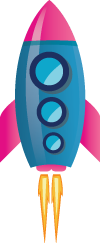
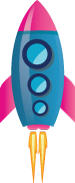
Added moving asteroids. Changed ship size

diff --git a/GameScene.swift b/GameScene.swift
@@ -100,7 +100,7 @@ class GameScene: SKScene {
         tapToStartNode.zPosition = player.zPosition + 1
         hud.addChild(tapToStartNode)
         
-        buildHUD()
+        createHUD()
         
         initMotionManager()
     }
@@ -111,16 +111,18 @@ class GameScene: SKScene {
             return
         }
         
+        // Update Score
         GameState.sharedInstance.score = Int(player.position.y) - 79
         scoreLabel.text = "\(GameState.sharedInstance.score)"
         
-        // Remove past objected
+        // Remove past objects
         foreground.enumerateChildNodesWithName("ASTEROID_NODE", usingBlock: {
             (node, stop) in
             let asteroid = node as! AsteroidNode
             asteroid.checkNodeRemoval(self.player.position.y)
         })
         
+        // Paralax Effect
         if (player.physicsBody!.dynamic) {
             background.position.y -= 0.2
             midground.position.y -=  0.5
@@ -134,6 +136,13 @@ class GameScene: SKScene {
             drawAsteroids(startingAt: maxLevelY - 1000)
         }
         
+        // Check if we should add a flying asteroid
+        let r = random()
+        if (r % 100) == 0 {
+            print("Drawing Asteroid!!")
+             drawMovingAsteroid(r)
+        }
+        
         // Check if we need to reload background
         if (player.position.y > backgroundHeight - self.size.height - 50) {
             backgroundHeight = backgroundHeight + backgroundImageHeight
@@ -142,6 +151,38 @@ class GameScene: SKScene {
             background.addChild(newBackground)
         }
     }
+    
+    override func touchesBegan(touches: Set<UITouch>, withEvent event: UIEvent?) {
+        
+        // If already started ignore touches
+        // TODO: Change this when power ups incorporated
+        if player.physicsBody!.dynamic {
+            return
+        }
+        
+        tapToStartNode.removeFromParent()
+        
+        if let musicURL = NSBundle.mainBundle().URLForResource("rocket_thrust", withExtension: "wav") {
+            backgroundMusic = SKAudioNode(URL: musicURL)
+            addChild(backgroundMusic)
+        }
+        
+        player.physicsBody?.dynamic = true
+    }
+    
+    override func didSimulatePhysics() {
+        player.physicsBody?.velocity.dx = xAcceleration * 400.0
+        player.zRotation = self.rotation
+        
+        // Check x bounds for wrap around
+        if player.position.x < -20.0 {
+            player.position.x = self.size.width + 20.0
+        } else if (player.position.x > self.size.width + 20.0) {
+            player.position.x = -20.0
+        }
+    }
+    
+    // MARK: Node Creating
     
     func createBackground(offset: Int) -> SKNode {
         
@@ -195,17 +236,16 @@ class GameScene: SKScene {
     func createPlayer() -> GameObjectNode {
         
         let playerNode = GameObjectNode()
-        playerNode.position = CGPoint(x: self.size.width / 2, y: 80.0) // TODO: Change magic number
+        playerNode.position = CGPoint(x: self.size.width / 2, y: 80.0)
         
         let sprite = SKSpriteNode(imageNamed: "blueRocket")
         playerNode.addChild(sprite)
         
         playerNode.physicsBody = SKPhysicsBody(rectangleOfSize: sprite.size)
         playerNode.physicsBody?.dynamic = false
-        playerNode.physicsBody?.allowsRotation = false // TODO: May want to change this later
+        playerNode.physicsBody?.allowsRotation = false
 
         // Node interaction properties
-        // TODO: May want to change damping later
         playerNode.physicsBody?.restitution = 1.0
         playerNode.physicsBody?.linearDamping = 0.0
         playerNode.physicsBody?.angularDamping = 0.0
@@ -220,7 +260,7 @@ class GameScene: SKScene {
         return playerNode
     }
     
-    func buildHUD() {
+    func createHUD() {
 
         // TODO: Change this dumb font
         scoreLabel = SKLabelNode(fontNamed: "ChalkboardSE-Bold")
@@ -232,11 +272,94 @@ class GameScene: SKScene {
         scoreLabel.text = "0"
         hud.addChild(scoreLabel)
     }
+    
+    // For creating stationary asteroids
+    // TODO: Create seperate method for creating asteroid at position with force (vector)
+    func drawAsteroidAtPosition(position: CGPoint, ofType type: AsteroidType) -> AsteroidNode {
+        
+        let node = AsteroidNode()
+        node.position = CGPoint(x: position.x * scaleFactor, y: position.y)
+        node.type = type
+        
+        var sprite: SKSpriteNode!
+        if type == .Moving {
+            sprite = SKSpriteNode(imageNamed: "asteroidWithTrail")
+            node.physicsBody = SKPhysicsBody(rectangleOfSize: sprite.size)
+            node.physicsBody?.dynamic = true
+            node.name = "MOVING_ASTEROID"
+        } else {
+            sprite = SKSpriteNode(imageNamed: "asteroid")
+            node.physicsBody = SKPhysicsBody(circleOfRadius: sprite.size.width / 2)
+            node.physicsBody?.dynamic = false
+            node.name = "NORMAL_ASTEROID"
+        }
+        node.addChild(sprite)
+        
+        node.physicsBody?.categoryBitMask = CollisionCategoryBitMask.Asteroid
+        node.physicsBody?.collisionBitMask = 0
+        
+        return node
+    }
+    
+    // Draw pattern at location and return max y height
+    func drawPattern(pattern: [NSDictionary], patternX: CGFloat, patternY: CGFloat) -> CGFloat {
 
+        var maxY: CGFloat = 0
+        
+        for asteroidPoint in pattern {
+            let x = asteroidPoint["x"]?.floatValue
+            let y = asteroidPoint["y"]?.floatValue
+            let positionX = CGFloat(x!) + patternX
+            let positionY = CGFloat(y!) + patternY
+            
+            let asteroidNode = drawAsteroidAtPosition(CGPoint(x: positionX, y: positionY), ofType: .Normal)
+            foreground.addChild(asteroidNode)
+            maxY = (positionY > maxY) ? positionY : maxY
+        }
+        
+        return maxY
+    }
+    
+    func drawAsteroids(startingAt y: CGFloat) {
+        let patterns = (levelData["Asteroids"] as! NSDictionary)["Patterns"] as! NSDictionary
+        let numPatterns = patterns.count
+        var pattern: [NSDictionary]!
+        var currentY = y
+        var nextY: CGFloat!
+        var xPosition: CGFloat!
+        var r = 0
+        
+        while (currentY < maxLevelY) {
+            // Get random pattern
+            r = random()
+            pattern = patterns.allValues[r % numPatterns] as! [NSDictionary]
+            
+            // Get rancdom xPosition between 30 and self.size.width - 30
+            xPosition = (CGFloat(r) % (self.size.width - 60)) + 30
+            
+            nextY = drawPattern(pattern, patternX: xPosition, patternY: currentY)
+            currentY = nextY + 100
+        }
+    }
+    
+    func drawMovingAsteroid(randomValue: Int) {
+        let xPosition = CGFloat(randomValue) % self.size.width
+        let asteroid = drawAsteroidAtPosition(CGPoint(x: xPosition, y: player.position.y + self.size.height), ofType: .Moving)
+        foreground.addChild(asteroid)
+
+        // Get random dx between -5 and 5, random dy between -10 and 5        
+        let dx = (random() % 10) - 5
+        let dy = dx - 20
+
+        asteroid.zRotation = atan2(CGFloat(dy), CGFloat(dx)) + CGFloat(M_PI_2)
+        asteroid.physicsBody?.applyImpulse(CGVector(dx: dx, dy: dy))
+    }
+    
+    // MARK: Motion Manager Setup
+    
     func initMotionManager() {
         
         // Get xAcceleration
-        
         motionManager.accelerometerUpdateInterval = 0.1
         motionManager.startAccelerometerUpdatesToQueue(NSOperationQueue.currentQueue()!, withHandler: {
             (accelerometerData: CMAccelerometerData?, error: NSError?) in
@@ -254,106 +377,10 @@ class GameScene: SKScene {
         })
     }
     
-    // For creating stationary asteroids
-    // TODO: Create seperate method for creating asteroid at position with force (vector)
-    func createAsteroidAtPosition(position: CGPoint, ofType type: AsteroidType) -> AsteroidNode {
-        
-        let node = AsteroidNode()
-        node.position = CGPoint(x: position.x * scaleFactor, y: position.y)
-        node.name = "ASTEROID_NODE"
-        
-        node.type = type
-        var sprite: SKSpriteNode!
-        if type == .Moving {
-            sprite = SKSpriteNode(imageNamed: "asteroidWithTrail")
-        } else {
-            sprite = SKSpriteNode(imageNamed: "asteroid")
-        }
-        node.addChild(sprite)
-        
-        node.physicsBody = SKPhysicsBody(rectangleOfSize: sprite.size)
-        node.physicsBody?.dynamic = false
-        
-        node.physicsBody?.categoryBitMask = CollisionCategoryBitMask.Asteroid
-        node.physicsBody?.collisionBitMask = 0
-        
-        return node
-    }
-    
-    // Draw pattern at location and return max y height
-    func drawPattern(pattern: [NSDictionary], patternX: CGFloat, patternY: CGFloat) -> CGFloat {
-        var maxY: CGFloat = 0
-        for asteroidPoint in pattern {
-            let x = asteroidPoint["x"]?.floatValue
-            let y = asteroidPoint["y"]?.floatValue
-            let positionX = CGFloat(x!) + patternX
-            let positionY = CGFloat(y!) + patternY
-            
-            // TODO: For now, all asteroids will be type normal
-            let asteroidNode = createAsteroidAtPosition(CGPoint(x: positionX, y: positionY), ofType: .Normal)
-            asteroidNode.name = "NORMAL_ASTEROID"
-            foreground.addChild(asteroidNode)
-            maxY = (positionY > maxY) ? positionY : maxY
-        }
-        
-        return maxY
-    }
-    
-    func drawAsteroids(startingAt y: CGFloat) {
-        let asteroids = levelData["Asteroids"] as! NSDictionary
-        let patterns = asteroids["Patterns"] as! NSDictionary
-        let numPatterns = patterns.count
-        var currentY = y
-        var pattern: [NSDictionary]!
-        var xPosition: CGFloat!
-        var nextY: CGFloat!
-        var r = 0
-        
-        while (currentY < maxLevelY) {
-            // Get random pattern
-            r = random()
-            pattern = patterns.allValues[r % numPatterns] as! [NSDictionary]
-            
-            // Get rancdom xPosition between 20 and self.size.width - 20
-            xPosition = (CGFloat(r) % (self.size.width - 40)) + 20
-            
-            nextY = drawPattern(pattern, patternX: xPosition, patternY: currentY)
-            currentY = nextY + 100
-        }
-    }
-    
-    override func touchesBegan(touches: Set<UITouch>, withEvent event: UIEvent?) {
-        
-        // If already started ignore touches
-        // TODO: Change this when power ups incorporated
-        if player.physicsBody!.dynamic {
-            return
-        }
-        
-        tapToStartNode.removeFromParent()
-
-        if let musicURL = NSBundle.mainBundle().URLForResource("rocket_thrust", withExtension: "wav") {
-            backgroundMusic = SKAudioNode(URL: musicURL)
-            addChild(backgroundMusic)
-        }
-        
-        player.physicsBody?.dynamic = true
-    }
-    
-    override func didSimulatePhysics() {
-        player.physicsBody?.velocity.dx = xAcceleration * 400.0
-        player.zRotation = self.rotation
-        
-        // Check x bounds for wrap around
-        if player.position.x < -20.0 {
-            player.position.x = self.size.width + 20.0
-        } else if (player.position.x > self.size.width + 20.0) {
-            player.position.x = -20.0
-        }
-    }
+    // MARK: End Game
     
     func endGame() {
-
+        
         motionManager.stopDeviceMotionUpdates()
         motionManager.stopAccelerometerUpdates()
         
@@ -364,6 +391,7 @@ class GameScene: SKScene {
         let endGameScene = EndGameScene(size: self.size)
         self.view!.presentScene(endGameScene, transition: reveal)
     }
+    
 }
 
 extension GameScene: SKPhysicsContactDelegate {
